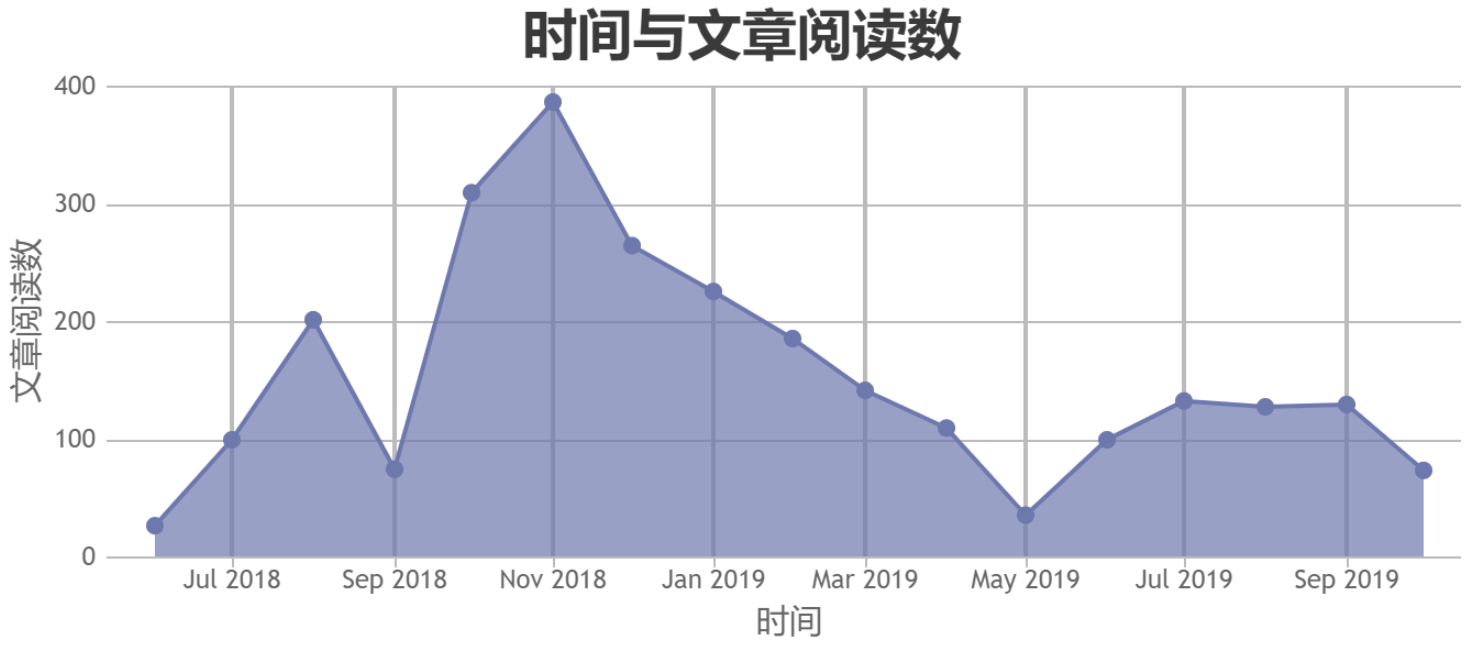
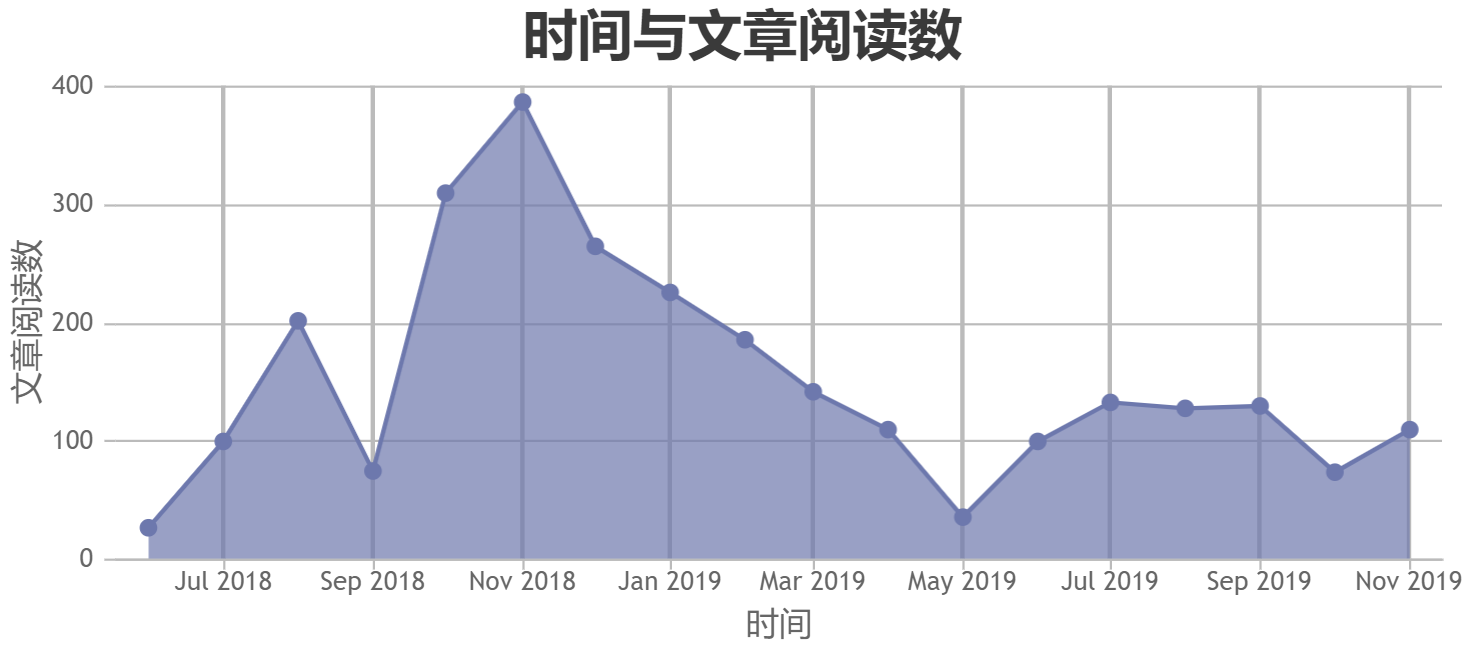
2019-11-1

diff --git a/index.html b/index.html
@@ -40,7 +40,8 @@
                         { x: new Date(2019, 6), y: 133 },
                         { x: new Date(2019, 7), y: 128 },
                         { x: new Date(2019, 8), y: 130 },
-                         { x: new Date(2019, 9), y: 74 },
+                        { x: new Date(2019, 9), y: 74 },
+                        { x: new Date(2019, 10), y: 110 },
                     ]
                 }]
             });

diff --git a/number.py b/number.py
@@ -7,9 +7,9 @@ Created on Fri Sep 14 09:12:16 2018
 
 import matplotlib.pyplot as plt
 date=['2018-5','2018-6','2018-7','2018-8','2018-9','2018-10','2018-11','2018-12',
-    '2019-1','2019-2','2019-3','2019-4','2019-5','2019-6','2019-7','2019-8','2019-9']
+    '2019-1','2019-2','2019-3','2019-4','2019-5','2019-6','2019-7','2019-8','2019-9','2019-10']
 number=[27,100,202,75,310,387,265,226,
-        186,142,110,36,100,133,128,130,74]
+        186,142,110,36,100,133,128,130,74,110]
 print("total number: ",sum(number))
 
 plt.figure(figsize=(10,10))

diff --git a/README.md b/README.md
@@ -1,13 +1,17 @@
 # 本仓库用来存放我看过的认为比较好的文章---根据时间排序
 若想看根据分类排序 [good-articlles-by-sort](https://github.com/zhang0peter/good-articles-by-sort)         
 ![number](number.png)            
-共2631篇文章        
+共2741篇文章        
 
 
-## 2019-10
+## 2019-11
 
 *   []()
 *   []()
+
+## 2019-10 共110篇
+*   [从偷渡案看2019年中国人生活水平在全球位置](https://user.guancha.cn/main/content?id=191225&page=0)
+*   [最近程序员频繁被抓，如何避免面向监狱编程！？ - HollisChuang - 博客园](https://www.cnblogs.com/hollischuang/p/11750625.html)
 *   [hao14293/2020-Postgraduate-408: 💯✍备考2020年研究生-408](https://github.com/hao14293/2020-Postgraduate-408)
 *   [浙江大学研究生院](http://grs.zju.edu.cn/)
 *   [浙江大学研究生招生网--2019硕士招生简章及招生专业目录](http://grs.zju.edu.cn/yjszs/redir.php?catalog_id=131815&object_id=145597)
